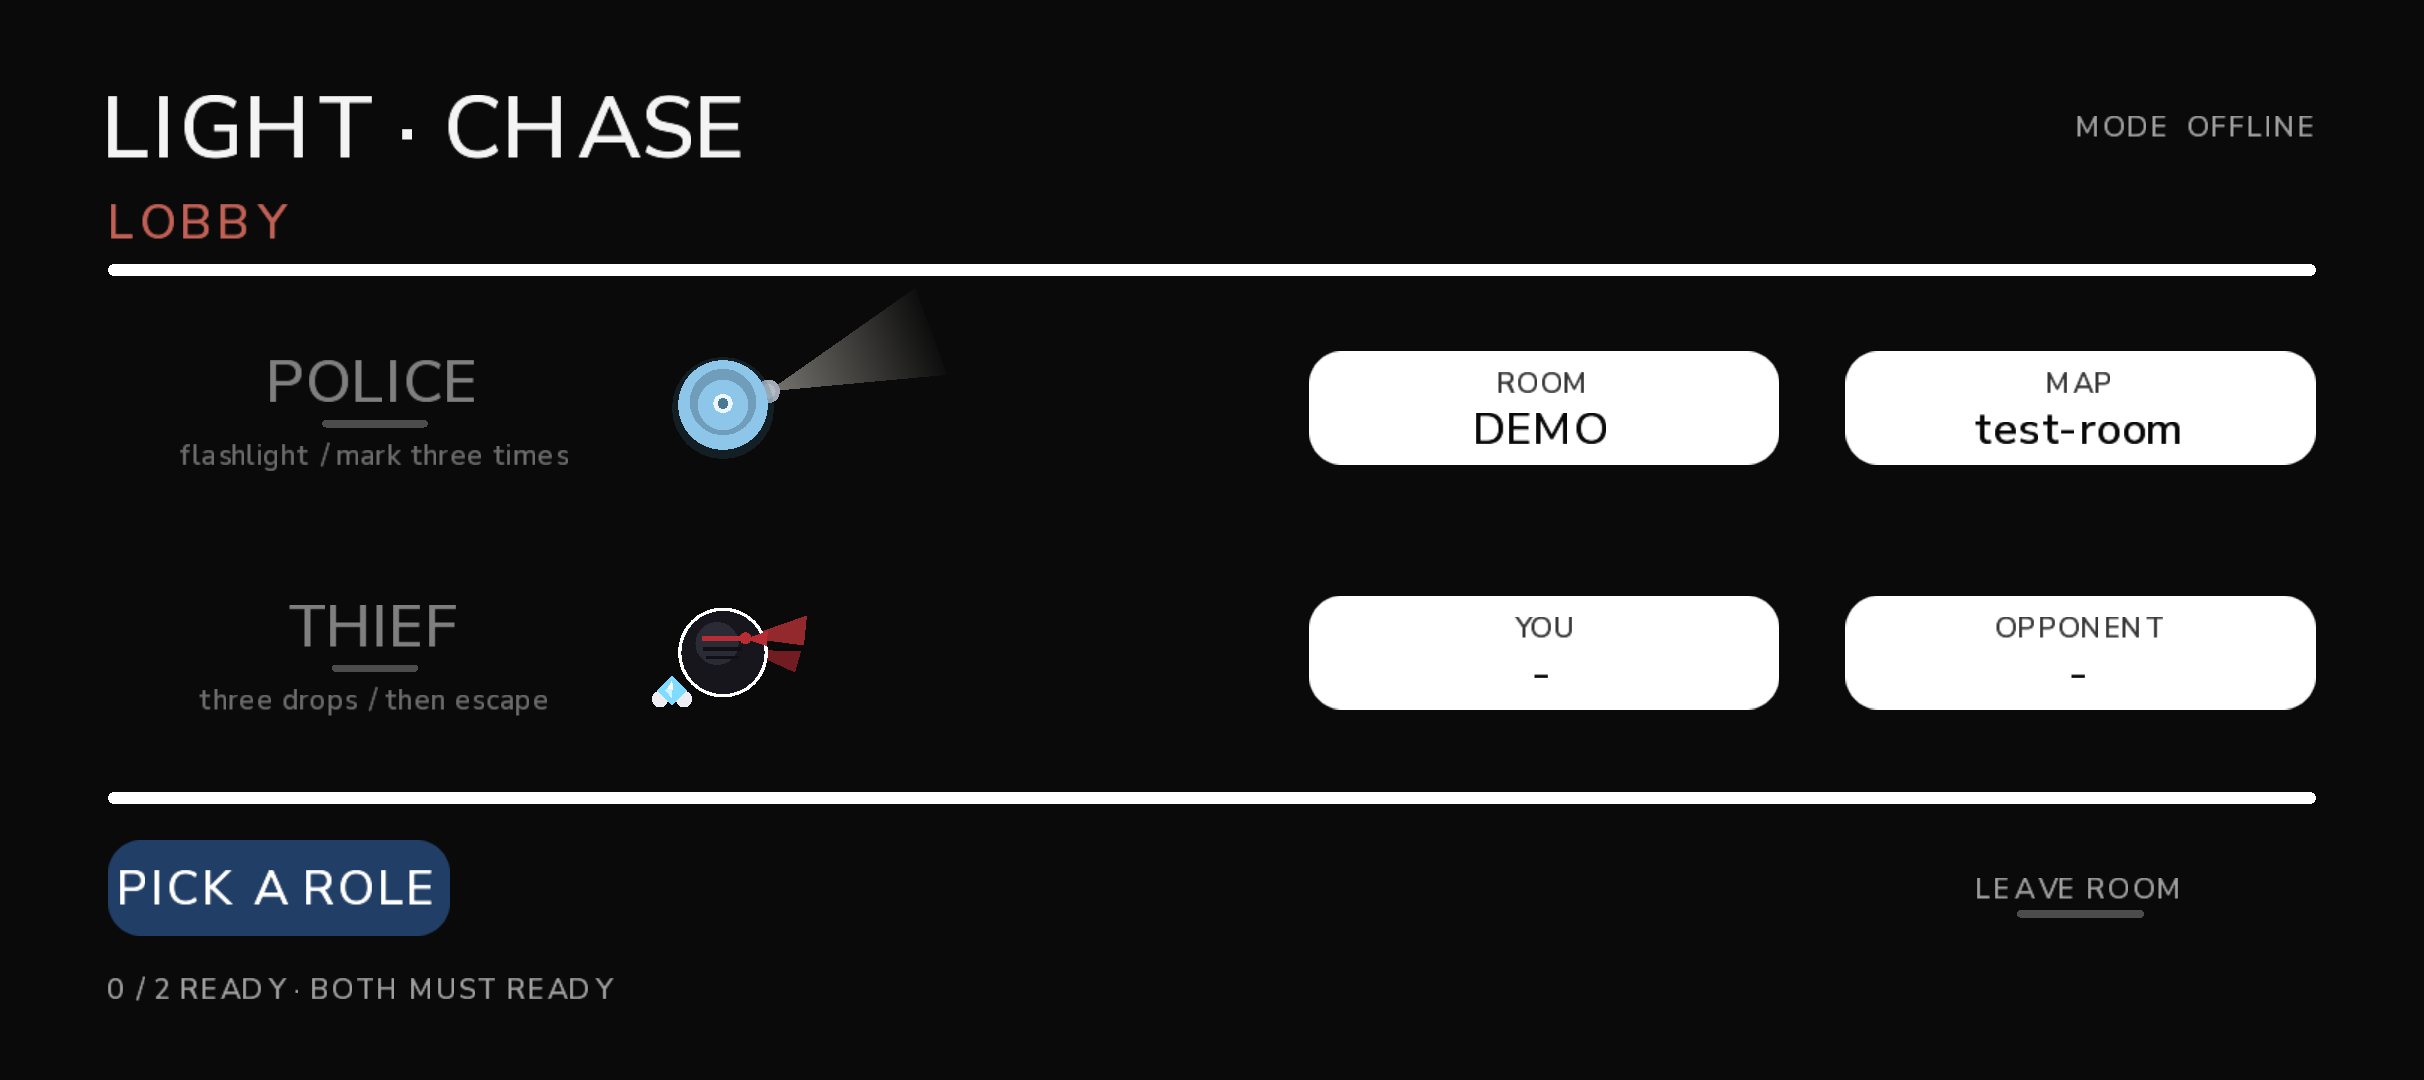
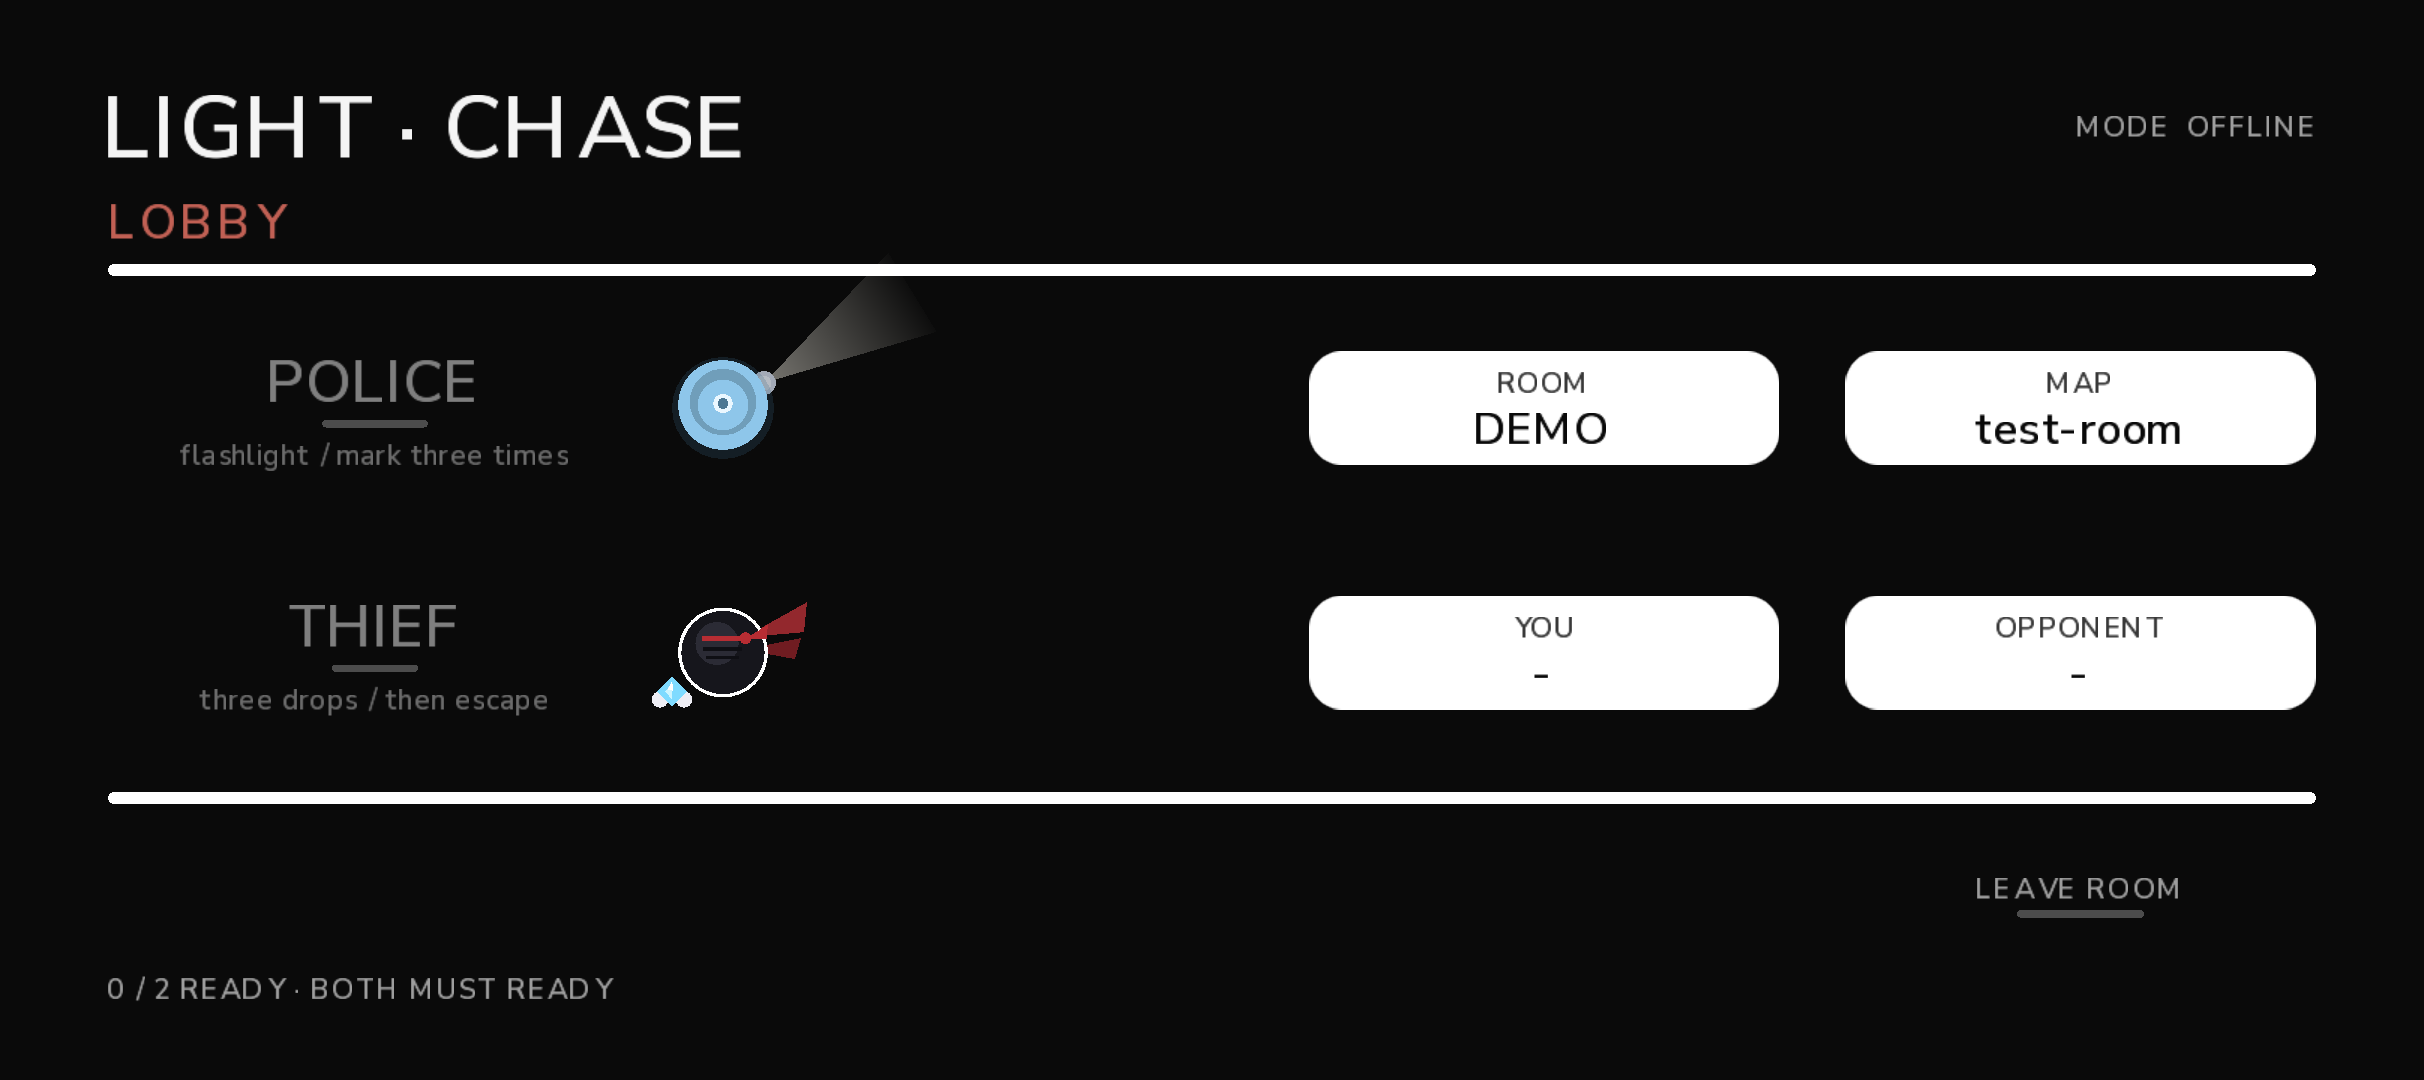
ui: READY appears only after a role is picked; press washes reset when they fire

Changed region(s): [[0.0309, 0.7639, 0.1856, 0.8861], [0.3094, 0.2444, 0.3713, 0.3667], [0.3094, 0.55, 0.3403, 0.6111]]

diff --git a/client-core/src/main/java/com/lightchase/client/LightChaseApp.java b/client-core/src/main/java/com/lightchase/client/LightChaseApp.java
@@ -127,6 +127,8 @@ public final class LightChaseApp extends ApplicationAdapter {
     /** Which secondary action is mid-pulse, and how far along. */
     /** Set when the lobby must show "nothing chosen" until the player taps a role. */
     private boolean suppressRoomRole = true;
+    /** 0..1: how far the READY button has faded in (it only exists once a role is picked). */
+    private float readyReveal;
     /** Button wash states: 0 = CONNECT, 1 = BACK TO LOBBY. */
     private final float[] wash = new float[2];
     private final boolean[] washing = new boolean[2];
@@ -574,13 +576,7 @@ public final class LightChaseApp extends ApplicationAdapter {
                 recordPress("ready");
                 // The click starts the animation; the request goes out when it lands, so the
                 // button reacts before the network does.
-                if (selectedRole == null) {
-                    // Nothing chosen yet: pick the free role instead of doing nothing, so the tap
-                    // always has a visible consequence.
-                    suppressRoomRole = false;
-                    gateway.selectRole(Role.THIEF == selectedRole ? Role.POLICE : Role.THIEF);
-                    return true;
-                }
+                if (selectedRole == null || readyReveal < 0.5f) return true;
                 if (!pending("SET_READY") && !readyQueued) {
                     readyQueued = true;
                     readyPress = 0f;
@@ -935,27 +931,31 @@ public final class LightChaseApp extends ApplicationAdapter {
                 selectedRole == null || other == null || other.role == null ? "-" : other.role.name());
 
         // ---- primary action ---------------------------------------------------------------
+        // The action only exists once a role has been chosen; before that it would be a button
+        // that cannot do its job, so it is simply not on screen.
         boolean busy = pending("SET_READY");
-        // Pressing fades the whole control towards white, so it dissolves into the white
-        // transition instead of cutting to it. Same length as the POLICE switch.
+        float reveal = UiAnim.smooth(readyReveal);
         float pressLit = UiAnim.smooth(readyPress);
         float bw = CTA_W;
         float bh = CTA_H;
         float bx = m;
-        float btop = CTA_TOP + bs;
-        scratchColor.set(busy ? UiTheme.LINE : READY_BLUE);
-        scratchColor.lerp(Color.WHITE, pressLit);
-        uiRound.fill(batch, scratchColor, bx, btop, bw, bh);
+        float btop = CTA_TOP + bs + (1f - reveal) * 10f;
+        if (reveal > 0.01f) {
+            scratchColor.set(busy ? UiTheme.LINE : READY_BLUE);
+            scratchColor.lerp(Color.WHITE, pressLit);
+            scratchColor.a = reveal;
+            uiRound.fill(batch, scratchColor, bx, btop, bw, bh);
 
-        String cta = busy ? "WAITING..." : (isSelfReady() ? "CANCEL READY"
-                : (selectedRole == null ? "PICK A ROLE" : "READY"));
-        float cw = UiDraw.width(fonts.cta, cta, 1.5f);
-        float ctop = btop + (bh - UiDraw.capHeight(fonts.cta)) / 2f;
-        // The label stays white: as the slab whitens the two converge and the button washes
-        // out into the incoming white screen rather than switching colour.
-        UiDraw.text(batch, fonts.cta, cta, bx + (bw - cw) / 2f, ctop,
-                busy ? LOBBY_GREY : Color.WHITE, 1.5f);
-        ctop = CTA_TOP + bs + (CTA_H - UiDraw.capHeight(fonts.cta)) / 2f;
+            String cta = busy ? "WAITING..." : (isSelfReady() ? "CANCEL READY" : "READY");
+            float cw = UiDraw.width(fonts.cta, cta, 1.5f);
+            float ctop2 = btop + (bh - UiDraw.capHeight(fonts.cta)) / 2f;
+            // The label stays white: as the slab whitens the two converge and the button washes
+            // out into the incoming white screen rather than switching colour.
+            scratchColor.set(busy ? LOBBY_GREY : Color.WHITE);
+            scratchColor.a = reveal;
+            UiDraw.text(batch, fonts.cta, cta, bx + (bw - cw) / 2f, ctop2, scratchColor, 1.5f);
+        }
+        float ctop = CTA_TOP + bs + (CTA_H - UiDraw.capHeight(fonts.cta)) / 2f;
 
         // Same line as READY, centred under the OPPONENT chip.
         float leaveTop = ctop + (UiDraw.capHeight(fonts.cta) - UiDraw.capHeight(fonts.mono)) / 2f;
@@ -1530,11 +1530,15 @@ public final class LightChaseApp extends ApplicationAdapter {
     private void updateLobby(float dt) {
 
         updateTransition(dt);
+        readyReveal = UiAnim.approach(readyReveal, selectedRole == null ? 0f : 1f, dt, 4.5f);
         for (int i = 0; i < wash.length; i++) {
             if (!washing[i]) continue;
             wash[i] = Math.min(1f, wash[i] + dt / 0.35f);
             if (wash[i] >= 1f) {
+                // The button goes back to navy at once: the white cover is already opaque, so the
+                // reset is invisible here and the button is normal again next time it is shown.
                 washing[i] = false;
+                wash[i] = 0f;
                 if (i == 0) startTransition(this::connect);
                 else startTransition(() -> { touch.clear(); gateway.returnToLobby(); });
             }
@@ -1618,6 +1622,7 @@ public final class LightChaseApp extends ApplicationAdapter {
             readyPress = Math.min(1f, readyPress + dt / 0.35f);
             if (readyPress >= 1f) {
                 readyQueued = false;
+                readyPress = 0f;   // same reason as the washes: never come back pre-whitened
                 startTransition(() -> {
                     if (!pending("SET_READY")) gateway.setReady(!isSelfReady());
                 });
